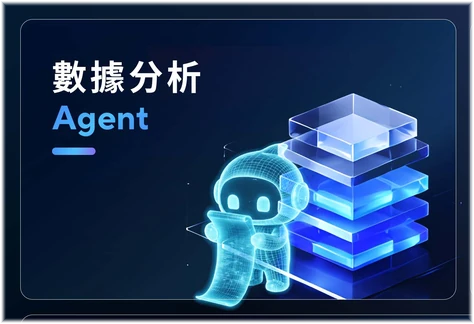
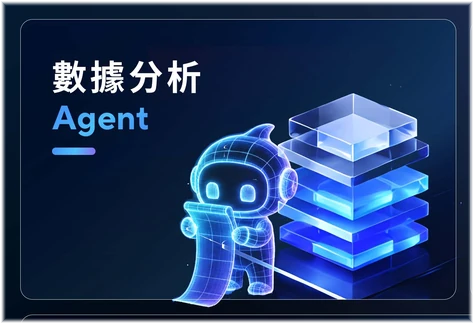
首頁主視覺更新為最終版，重新產生分層圖與 og-image
- 12 個圖層與底圖依新版主視覺重新切出，位置不變
- og-image 同步更新
- banner 圖片加上版本參數，避免瀏覽器沿用舊圖
- 主視覺原始檔改名為 kv-original.jpg

Changed region(s): [[0.3544, 0.3704, 0.6793, 0.9568]]

diff --git a/index.html b/index.html
@@ -24,12 +24,12 @@
     <meta name="twitter:title" content="SCI 影身術戰力解析｜Agent Computer｜ASUS 台灣">
     <meta name="twitter:description" content="回答幾個關於日常工作的問題，算出你的 SCI 影身術指數、每月可省下的工時與費用，並依六大地端 AI 情境推薦最適合的 ASUS Agent Computer 設備。">
     <meta name="twitter:image" content="https://www.asus.com/microsite/agent-computer-sci/tw/img/og-image.jpg">
-    <link rel="preload" as="image" href="img/banner/kv-base.jpg" fetchpriority="high">
+    <link rel="preload" as="image" href="img/banner/kv-base.jpg?v=3" fetchpriority="high">
     <script type="application/ld+json">{"@context": "https://schema.org", "@type": "WebApplication", "name": "SCI 影身術戰力解析", "url": "https://www.asus.com/microsite/agent-computer-sci/tw/", "description": "回答幾個關於日常工作的問題，算出你的 SCI 影身術指數、每月可省下的工時與費用，並依六大地端 AI 情境推薦最適合的 ASUS Agent Computer 設備。", "inLanguage": "zh-TW", "applicationCategory": "BusinessApplication", "operatingSystem": "Any", "browserRequirements": "需要啟用 JavaScript 的現代瀏覽器", "isAccessibleForFree": true, "offers": {"@type": "Offer", "price": "0", "priceCurrency": "TWD"}, "image": "https://www.asus.com/microsite/agent-computer-sci/tw/img/og-image.jpg", "publisher": {"@type": "Organization", "name": "ASUS", "url": "https://www.asus.com/tw/"}}</script>
     <link rel="preconnect" href="https://fonts.googleapis.com">
     <link rel="preconnect" href="https://fonts.gstatic.com" crossorigin>
     <link href="https://fonts.googleapis.com/css2?family=Manrope:wght@400;500;600;700;800&family=Noto+Sans+TC:wght@400;500;600;700&display=swap" rel="stylesheet">
-    <link rel="stylesheet" href="css/styles.css?v=6.73.0">
+    <link rel="stylesheet" href="css/styles.css?v=6.74.0">
 </head>
 <body class="landing-active">
     <h1 class="visually-hidden">SCI 影身術戰力解析｜ASUS Agent Computer</h1>
@@ -41,22 +41,22 @@
     </noscript>
     <section class="landing-hero" id="landing-hero" aria-label="Agent Computer 影身術戰力解鎖">
         <div class="landing-stage" id="landing-stage">
-            <img class="landing-bg" src="img/banner/kv-base.jpg" width="2560" height="987" alt="" fetchpriority="high" decoding="async">
-            <div class="landing-crop landing-crop--left" aria-hidden="true"><img src="img/banner/kv.jpg" width="2560" height="987" alt=""></div>
-            <div class="landing-crop landing-crop--right" aria-hidden="true"><img src="img/banner/kv.jpg" width="2560" height="987" alt=""></div>
-            <img class="banner-layer banner-logo" style="--l:1.641%;--t:2.837%;--w:9.531%" src="img/banner/kv-logo.webp" width="244" height="114" alt="ASUS">
-            <img class="banner-layer banner-title" style="--l:2.656%;--t:14.995%;--w:30%" src="img/banner/kv-title.webp" width="768" height="254" alt="Agent Computer 影身術戰力解鎖">
-            <img class="banner-layer banner-zenni" style="--l:31.016%;--t:14.995%;--w:10.312%" src="img/banner/kv-zenni.webp" width="264" height="270" alt="">
-            <img class="banner-layer banner-lead" style="--l:2.656%;--t:37.487%;--w:38.047%" src="img/banner/kv-lead.webp" width="974" height="114" alt="30 秒診斷工作流，精算影子團隊為您帶來的時間與省錢極限">
-            <img class="banner-layer banner-ksp" style="--l:2.266%;--t:45.795%;--w:37.656%" src="img/banner/kv-ksp.webp" width="964" height="118" alt="時間回收、隱私防護、Token 節省、產能翻倍">
-            <img class="banner-layer banner-badge" style="--l:32.109%;--t:57.345%;--w:9.219%" src="img/banner/kv-badge.webp" width="236" height="106" alt="">
-            <img class="banner-layer banner-card banner-card--1" style="--l:44.531%;--t:13.171%;--w:18.516%" src="img/banner/kv-card1.webp" width="474" height="324" alt="數據分析 Agent">
-            <img class="banner-layer banner-card banner-card--2" style="--l:62.187%;--t:13.171%;--w:19.219%" src="img/banner/kv-card2.webp" width="492" height="316" alt="生產力與自動化 Agent">
-            <img class="banner-layer banner-card banner-card--3" style="--l:79.766%;--t:8.105%;--w:18.516%" src="img/banner/kv-card3.webp" width="474" height="366" alt="技術開發 Agent">
-            <img class="banner-layer banner-card banner-card--4" style="--l:44.531%;--t:43.161%;--w:27.5%" src="img/banner/kv-card4.webp" width="704" height="316" alt="檢索與資安 Agent">
-            <img class="banner-layer banner-card banner-card--5" style="--l:71.172%;--t:43.161%;--w:27.109%" src="img/banner/kv-card5.webp" width="694" height="316" alt="內容創作 Agent">
+            <img class="landing-bg" src="img/banner/kv-base.jpg?v=3" width="2560" height="987" alt="" fetchpriority="high" decoding="async">
+            <div class="landing-crop landing-crop--left" aria-hidden="true"><img src="img/banner/kv.jpg?v=3" width="2560" height="987" alt=""></div>
+            <div class="landing-crop landing-crop--right" aria-hidden="true"><img src="img/banner/kv.jpg?v=3" width="2560" height="987" alt=""></div>
+            <img class="banner-layer banner-logo" style="--l:1.641%;--t:2.837%;--w:9.531%" src="img/banner/kv-logo.webp?v=3" width="244" height="114" alt="ASUS">
+            <img class="banner-layer banner-title" style="--l:2.656%;--t:14.995%;--w:30%" src="img/banner/kv-title.webp?v=3" width="768" height="254" alt="Agent Computer 影身術戰力解鎖">
+            <img class="banner-layer banner-zenni" style="--l:31.016%;--t:14.995%;--w:10.312%" src="img/banner/kv-zenni.webp?v=3" width="264" height="270" alt="">
+            <img class="banner-layer banner-lead" style="--l:2.656%;--t:37.487%;--w:38.047%" src="img/banner/kv-lead.webp?v=3" width="974" height="114" alt="30 秒診斷工作流，精算影子團隊為您帶來的時間與省錢極限">
+            <img class="banner-layer banner-ksp" style="--l:2.266%;--t:45.795%;--w:37.656%" src="img/banner/kv-ksp.webp?v=3" width="964" height="118" alt="時間回收、隱私防護、Token 節省、產能翻倍">
+            <img class="banner-layer banner-badge" style="--l:32.109%;--t:57.345%;--w:9.219%" src="img/banner/kv-badge.webp?v=3" width="236" height="106" alt="">
+            <img class="banner-layer banner-card banner-card--1" style="--l:44.531%;--t:13.171%;--w:18.516%" src="img/banner/kv-card1.webp?v=3" width="474" height="324" alt="數據分析 Agent">
+            <img class="banner-layer banner-card banner-card--2" style="--l:62.187%;--t:13.171%;--w:19.219%" src="img/banner/kv-card2.webp?v=3" width="492" height="316" alt="生產力與自動化 Agent">
+            <img class="banner-layer banner-card banner-card--3" style="--l:79.766%;--t:8.105%;--w:18.516%" src="img/banner/kv-card3.webp?v=3" width="474" height="366" alt="技術開發 Agent">
+            <img class="banner-layer banner-card banner-card--4" style="--l:44.531%;--t:43.161%;--w:27.5%" src="img/banner/kv-card4.webp?v=3" width="704" height="316" alt="檢索與資安 Agent">
+            <img class="banner-layer banner-card banner-card--5" style="--l:71.172%;--t:43.161%;--w:27.109%" src="img/banner/kv-card5.webp?v=3" width="694" height="316" alt="內容創作 Agent">
             <button class="banner-layer banner-cta" style="--l:46.797%;--t:78.419%;--w:48.594%" type="button" id="start-assessment" aria-label="立即獲取專屬《影身術戰力診斷報告》">
-                <img src="img/banner/kv-cta.webp" width="1244" height="146" alt="">
+                <img src="img/banner/kv-cta.webp?v=3" width="1244" height="146" alt="">
                 <span class="banner-cta__hint" aria-hidden="true">
                     <i></i>
                     <svg viewBox="0 0 32 32"><path d="M12.5 3.5c1.4 0 2.5 1.1 2.5 2.5v8.2l1-.2c1.2-.2 2.3.5 2.7 1.6l.9-.2c1.2-.2 2.4.5 2.8 1.7l.5-.1c1.5-.2 2.9 1 2.9 2.5V23c0 3.6-2.9 6.5-6.5 6.5h-3.600c-2 0-3.900-.9-5.100-2.500l-5-6.500c-.8-1-.6-2.500.4-3.300 1-.8 2.500-.7 3.300.3L10 18.300V6c0-1.400 1.100-2.500 2.500-2.500z"/></svg>

diff --git a/css/styles.css b/css/styles.css
@@ -49,7 +49,7 @@ body.landing-active { overflow: hidden; }
 body.landing-active .brand-header, body.landing-active .page-shell, body.landing-active .site-footer, body.landing-active .skip-link { display: none; }
 
 .landing-hero { position: fixed; inset: 0; z-index: 80; display: grid; place-items: center; overflow: hidden; background: #040a1f; }
-.landing-hero::before { content: ""; position: absolute; inset: -60px; background: url("../img/banner/kv.jpg") center / cover no-repeat; filter: blur(34px) saturate(1.1); transform: scale(1.08); }
+.landing-hero::before { content: ""; position: absolute; inset: -60px; background: url("../img/banner/kv.jpg?v=3") center / cover no-repeat; filter: blur(34px) saturate(1.1); transform: scale(1.08); }
 .landing-stage { position: relative; width: min(100vw, calc(100dvh * 1920 / 740)); aspect-ratio: 1920 / 740; container-type: inline-size; isolation: isolate; }
 .landing-bg { position: absolute; inset: 0; width: 100%; height: 100%; object-fit: cover; user-select: none; -webkit-user-drag: none; -webkit-mask-image: linear-gradient(to bottom, transparent 0, #000 5%, #000 95%, transparent 100%); mask-image: linear-gradient(to bottom, transparent 0, #000 5%, #000 95%, transparent 100%); }
 .landing-crop { display: none; }
